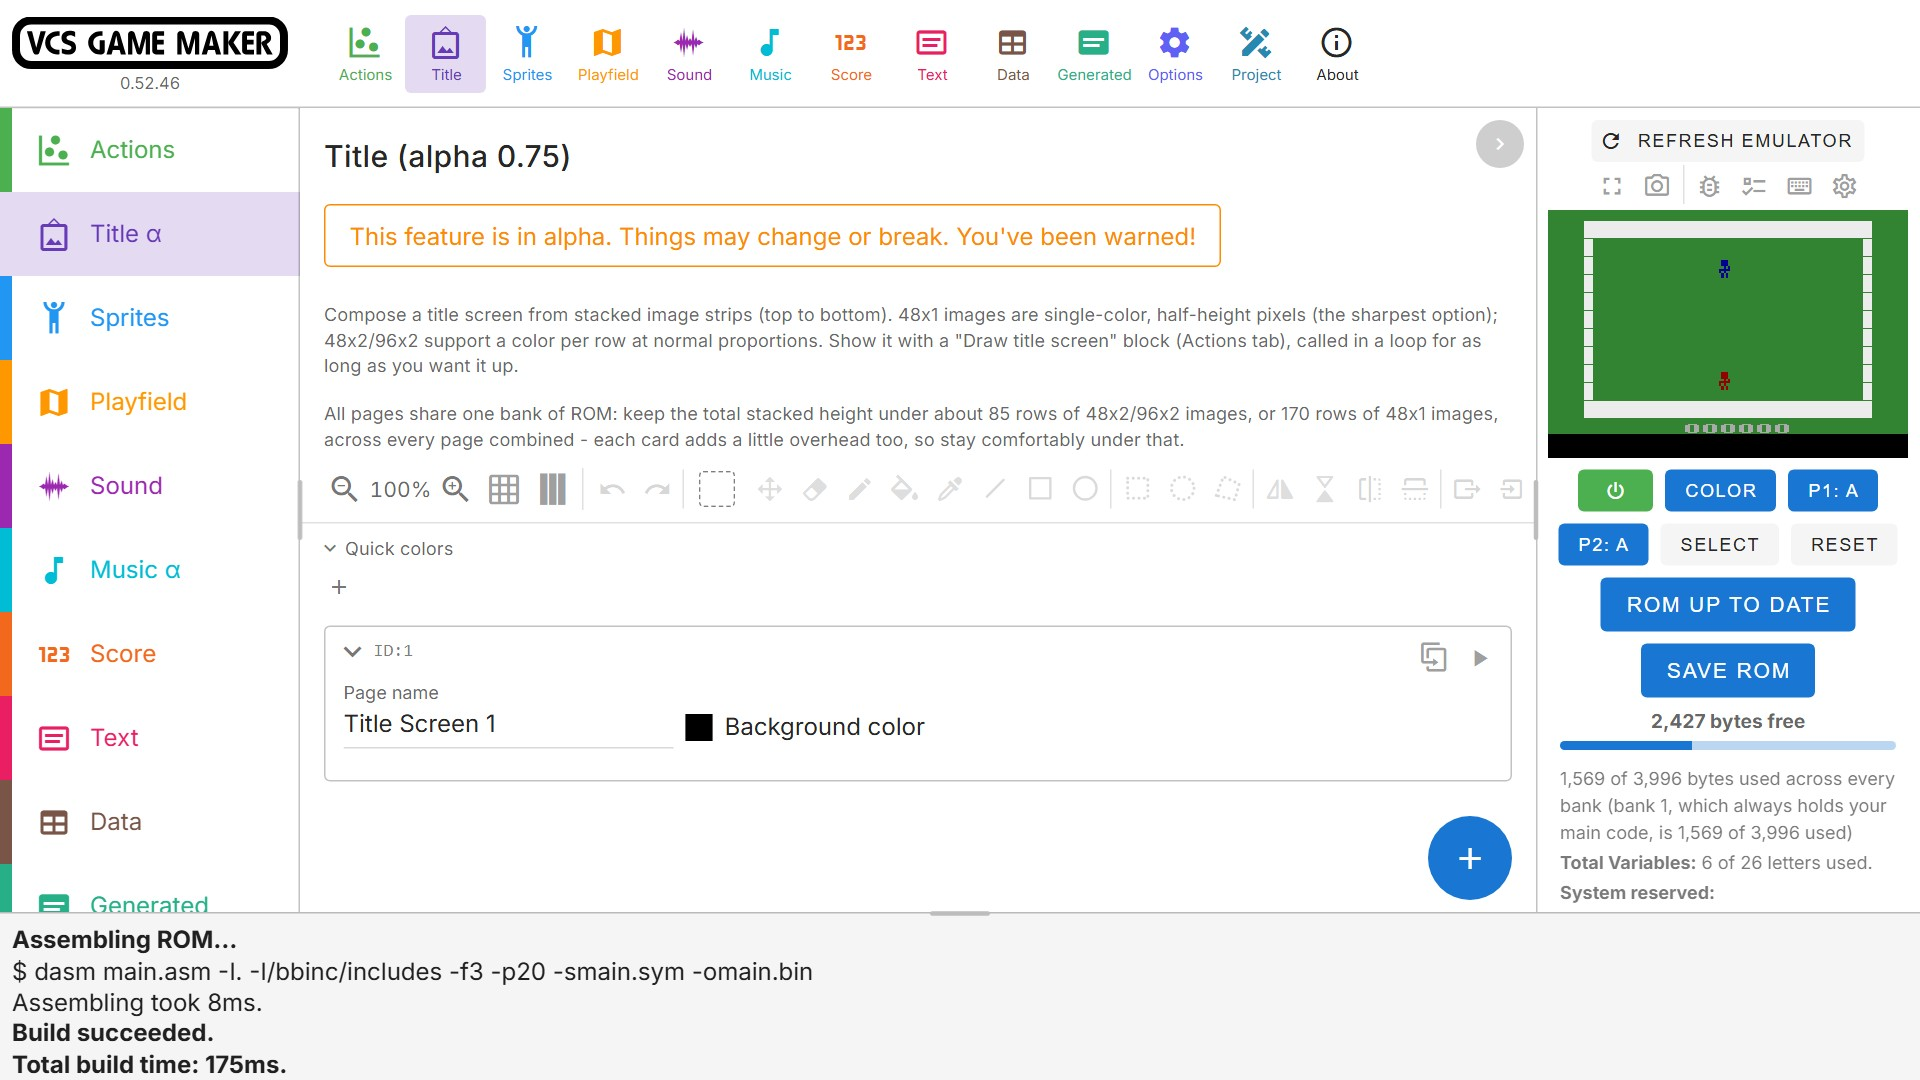
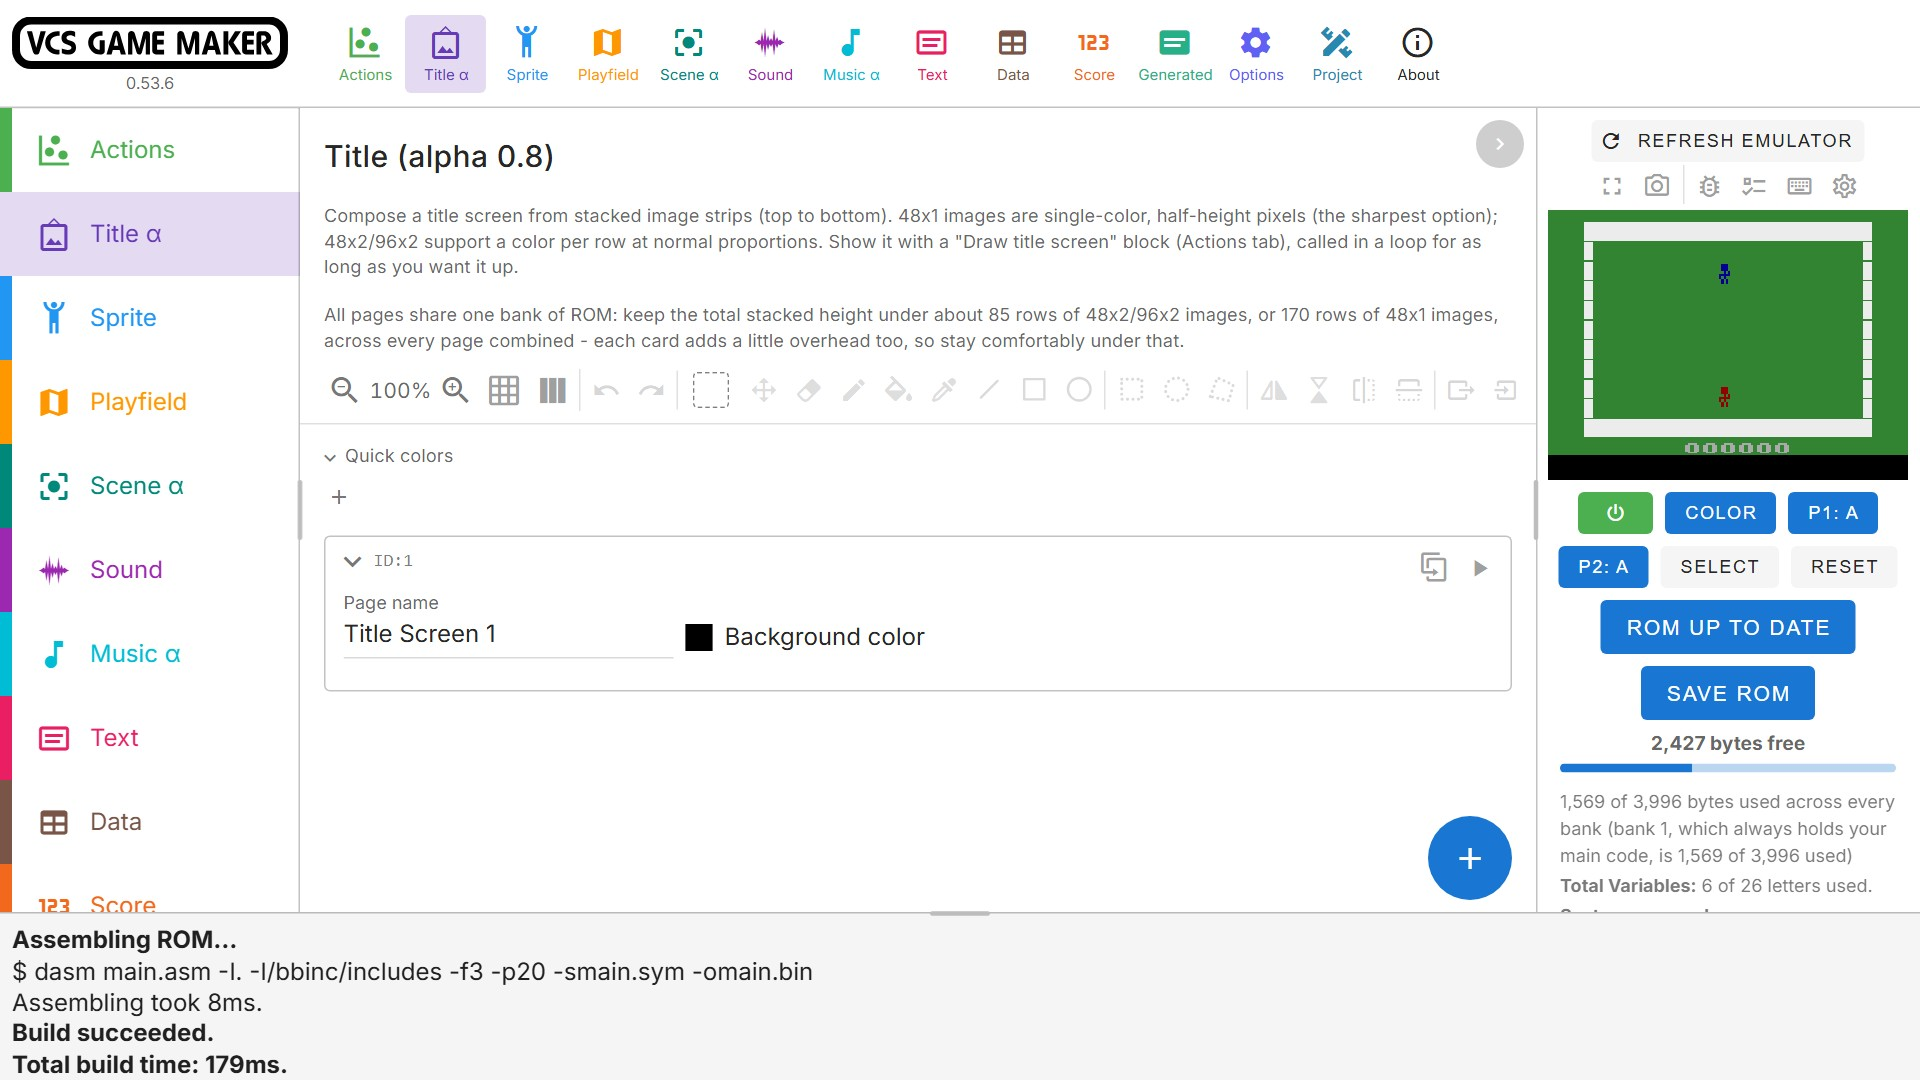
Everything through 0.53.7: DPC+ kernel bank fix, Scenes section on the web page, title preview and macOS signing fixes

diff --git a/src/hooks/rom.js b/src/hooks/rom.js
@@ -221,6 +221,24 @@ const shareDpcPlusPlayerData = (compiled, config) => {
 // multiply or divide by a power of 2 into shifts and may never call it. The routine takes room in the first bank (on DPC+ the
 // kernel's bank, which has under 100 bytes free), so when nothing in the compiled code or the files next to it calls it, the
 // include is left out.
+// On DPC+ the routine would sit in bank 1 with the kernel, which has under 100 bytes free, and a project that divides by 12 was 28 bytes
+// too big for that bank by the routine alone. The compiler sends every multiply and divide to the bank in X (always 1, where the
+// routine is included), so the routine is moved to the end of bank 2 (the bank the program starts in) and the calls are given the new
+// bank. A bank 2 that is then too full shrinks like any other bank, by relocating events and graphics out of it.
+const moveDivMulOutOfKernelBank = (compiled) => {
+  const asm = compiled.mainAsm;
+  if (!/__dpcplus_mainbody_entry/.test(asm)) return;
+  const includeLine = /^[ \t]*include[ \t]+"?div_mul\.asm"?[ \t]*\r?\n/m;
+  const bank3 = /^\.L\d+ ;;line \d+;;  bank 3[ \t]*$/m;
+  const calls = /( lda #<\((?:mul8|div8)-1\)\r?\n pha\r?\n lda temp7\r?\n pha\r?\n txa\r?\n pha\r?\n ldx #)1(\r?\n jmp BS_jsr)/g;
+  if (!includeLine.test(asm) || !bank3.test(asm)) return;
+  compiled.mainAsm = asm
+      .replace(includeLine, '')
+      .replace(bank3, (line) => ` include div_mul.asm\n${line}`)
+      .replace(calls, (all, before, after) => `${before}2${after}`);
+  appendCompileLog('Moved the multiply and divide routine from bank 1 (the kernel, which has little room) to bank 2.');
+};
+
 const dropUnusedDivMul = (compiled, siblingFiles) => {
   const includeLine = /^[ \t]*include[ \t]+"?div_mul\.asm"?[ \t\r]*$/m;
   if (!includeLine.test(compiled.mainAsm)) return;
@@ -228,7 +246,10 @@ const dropUnusedDivMul = (compiled, siblingFiles) => {
   const rest = compiled.mainAsm.replace(includeLine, '');
   const others = Object.entries(siblingFiles || {}).filter(([name]) => !/^div_mul/.test(name)).map(([, text]) => String(text));
   const code = (text) => text.replace(/;.*$/gm, '');
-  if (calls.test(code(rest)) || others.some((text) => calls.test(code(text)))) return;
+  if (calls.test(code(rest)) || others.some((text) => calls.test(code(text)))) {
+    moveDivMulOutOfKernelBank(compiled);
+    return;
+  }
   compiled.mainAsm = rest;
   appendCompileLog('Left out the multiply and divide routine: nothing calls it (the compiler turned the multiplies and divides into shifts).');
 };
@@ -466,6 +487,14 @@ const parseOverflowingBank = (stdout) => {
   const over = [...((stdout || '').matchAll(/(-?\d+) bytes of ROM space left in bank (\d+)/g))]
       .filter((match) => parseInt(match[1], 10) < 0);
   return over.length ? parseInt(over[over.length - 1][2], 10) : null;
+};
+
+// The bank the Title Screen Kernel is in, as a list to spread into a set of banks other units must not be moved to (empty for the kernel
+// itself, and before it has a bank): the kernel takes about 3,300 bytes of its bank, and the units that were moved there with it made it overflow.
+const titleKernelBankFor = (unit) => {
+  if (unit && unit.kind === 'subroutineBanks' && unit.name === TITLE_SCREEN_SUBROUTINE_NAME) return [];
+  const bank = (getRelocationBanks().subroutineBanks || {})[TITLE_SCREEN_SUBROUTINE_NAME];
+  return bank ? [bank] : [];
 };
 
 // How many bytes a bank is over by, from the same lines (0 when it is not over or is not reported).
@@ -1887,7 +1916,10 @@ const buildRomInner = async () => {
                 }
               });
             });
-            coResidents.sort((a, b) => b.size - a.size);
+            // The Title Screen Kernel is the biggest unit by far, and moving it first just made the next bank too full for it (it went round
+            // the banks): it is left where it is, and the other units go.
+            const isTitleKernel = (unit) => unit.kind === 'subroutineBanks' && unit.name === TITLE_SCREEN_SUBROUTINE_NAME;
+            coResidents.sort((a, b) => (isTitleKernel(a) - isTitleKernel(b)) || (b.size - a.size));
             const next = coResidents[0];
             if (!next) {
               // Every occupant of this bank has already been tried
@@ -1934,7 +1966,7 @@ const buildRomInner = async () => {
               // previously-tried bank stay pickable, just deprioritized)
               // caused a different real bug, a unit oscillating forever
               // between the same two equally-penalized banks.
-              const excludeBanks = new Set([reservedMusicBank, ...triedBanks].filter(Boolean));
+              const excludeBanks = new Set([reservedMusicBank, ...triedBanks, ...titleKernelBankFor(next)].filter(Boolean));
               let nextBank = pickNextBank(banks, maxBanks, textMinikernelActive, excludeBanks,
                   minRelocationBankFor(config), [next.kind], primaryBankFor(config));
               // Every available bank has now been tried for this ONE unit
@@ -1969,7 +2001,12 @@ const buildRomInner = async () => {
               .forEach(({kind, name}) => setRelocationBank(kind, name, bank));
           relocatedThisBuild.push({kind: candidate.kind, name: candidate.name, bank, members: candidate.members});
           if (candidate.kind === 'subroutineBanks' && candidate.name === TITLE_SCREEN_SUBROUTINE_NAME) {
-            titleOverBytes = Math.max(titleOverBytes, parseBankOverflowBytes(e.dasmStdout, parseOverflowingBank(e.dasmStdout)));
+            // Only an overflow of a bank other than bank 1 says the title screen is too big: bank 1 over by some bytes with the kernel
+            // moved out is bank 1 itself being full, whatever the title screen is (the message would then blame the wrong thing).
+            const overflowedBank = parseOverflowingBank(e.dasmStdout);
+            if (overflowedBank !== null && overflowedBank !== 1) {
+              titleOverBytes = Math.max(titleOverBytes, parseBankOverflowBytes(e.dasmStdout, overflowedBank));
+            }
           }
           // Not an 'error'-level entry - an overflow here is an expected,
           // automatically-handled part of the relocation retry loop, not a
@@ -1988,7 +2025,7 @@ const buildRomInner = async () => {
             const more = pickRelocationCandidate(getRelocationBanks(), !!reservedMusicBank, primaryBankFor(config));
             if (!more || more.kind === 'musicBanks') break;
             const moreBank = pickNextBank(getRelocationBanks(), maxBanks, textMinikernelActive,
-                reservedMusicBank ? new Set([reservedMusicBank]) : null, minRelocationBankFor(config),
+                new Set([reservedMusicBank, ...titleKernelBankFor(more)].filter(Boolean)), minRelocationBankFor(config),
                 (more.members || [more]).map(({kind}) => kind));
             if (!moreBank) break;
             (more.members || [{kind: more.kind, name: more.name}]).forEach(({kind, name}) => setRelocationBank(kind, name, moreBank));
@@ -2024,8 +2061,8 @@ const buildRomInner = async () => {
               const triedBanks = retriedBanksByUnit.get(unitKey);
               triedBanks.add(emptyThisBank);
               const toBank = pickNextBank(getRelocationBanks(), maxBanks, textMinikernelActive,
-                  new Set([reservedMusicBank, ...triedBanks].filter(Boolean)), minRelocationBankFor(config), [unit.kind],
-                  primaryBankFor(config));
+                  new Set([reservedMusicBank, ...triedBanks, ...titleKernelBankFor(unit)].filter(Boolean)), minRelocationBankFor(config),
+                  [unit.kind], primaryBankFor(config));
               if (!toBank) continue;
               setRelocationBank(unit.kind, unit.name, toBank);
               stuckBankTriedUnits.add(unitKey);

diff --git a/site/index.html b/site/index.html
@@ -117,21 +117,21 @@
       <div class="dl-groups">
         <div class="dl-group">
           <p class="dl-title">Windows</p>
-          <a class="button" href="https://github.com/AbstractPolygon/vcs-game-maker-absply/releases/download/0.53.6/VCS-Game-Maker-0.53.6-Windows-Setup.msi" data-asset="Windows-Setup.msi">Intel / AMD (installer)</a>
-          <a class="button" href="https://github.com/AbstractPolygon/vcs-game-maker-absply/releases/download/0.53.6/VCS-Game-Maker-0.53.6-Windows-arm64-Setup.msi" data-asset="Windows-arm64-Setup.msi">ARM (installer)</a>
+          <a class="button" href="https://github.com/AbstractPolygon/vcs-game-maker-absply/releases/download/0.53.7/VCS-Game-Maker-0.53.7-Windows-Setup.msi" data-asset="Windows-Setup.msi">Intel / AMD (installer)</a>
+          <a class="button" href="https://github.com/AbstractPolygon/vcs-game-maker-absply/releases/download/0.53.7/VCS-Game-Maker-0.53.7-Windows-arm64-Setup.msi" data-asset="Windows-arm64-Setup.msi">ARM (installer)</a>
         </div>
         <div class="dl-group">
           <p class="dl-title">macOS</p>
-          <a class="button" href="https://github.com/AbstractPolygon/vcs-game-maker-absply/releases/download/0.53.6/VCS-Game-Maker-0.53.6-macOS-x64.dmg" data-asset="macOS-x64.dmg">Intel (dmg)</a>
+          <a class="button" href="https://github.com/AbstractPolygon/vcs-game-maker-absply/releases/download/0.53.7/VCS-Game-Maker-0.53.7-macOS-x64.dmg" data-asset="macOS-x64.dmg">Intel (dmg)</a>
         </div>
         <div class="dl-group">
           <p class="dl-title">Linux</p>
-          <a class="button" href="https://github.com/AbstractPolygon/vcs-game-maker-absply/releases/download/0.53.6/VCS-Game-Maker-0.53.6-Linux-x64.AppImage.tar.gz" data-asset="Linux-x64.AppImage.tar.gz">Intel / AMD (AppImage)</a>
-          <a class="button" href="https://github.com/AbstractPolygon/vcs-game-maker-absply/releases/download/0.53.6/VCS-Game-Maker-0.53.6-Linux-amd64.deb" data-asset="Linux-amd64.deb">Intel / AMD (deb)</a>
-          <a class="button" href="https://github.com/AbstractPolygon/vcs-game-maker-absply/releases/download/0.53.6/VCS-Game-Maker-0.53.6-Linux-x86_64.rpm" data-asset="Linux-x86_64.rpm">Intel / AMD (rpm)</a>
-          <a class="button" href="https://github.com/AbstractPolygon/vcs-game-maker-absply/releases/download/0.53.6/VCS-Game-Maker-0.53.6-Linux-arm64.AppImage.tar.gz" data-asset="Linux-arm64.AppImage.tar.gz">ARM (AppImage)</a>
-          <a class="button" href="https://github.com/AbstractPolygon/vcs-game-maker-absply/releases/download/0.53.6/VCS-Game-Maker-0.53.6-Linux-arm64.deb" data-asset="Linux-arm64.deb">ARM (deb)</a>
-          <a class="button" href="https://github.com/AbstractPolygon/vcs-game-maker-absply/releases/download/0.53.6/VCS-Game-Maker-0.53.6-Linux-x64-VCS-portable.tar.gz" data-asset="Linux-x64-VCS-portable.tar.gz">2021 VCS (portable)</a>
+          <a class="button" href="https://github.com/AbstractPolygon/vcs-game-maker-absply/releases/download/0.53.7/VCS-Game-Maker-0.53.7-Linux-x64.AppImage.tar.gz" data-asset="Linux-x64.AppImage.tar.gz">Intel / AMD (AppImage)</a>
+          <a class="button" href="https://github.com/AbstractPolygon/vcs-game-maker-absply/releases/download/0.53.7/VCS-Game-Maker-0.53.7-Linux-amd64.deb" data-asset="Linux-amd64.deb">Intel / AMD (deb)</a>
+          <a class="button" href="https://github.com/AbstractPolygon/vcs-game-maker-absply/releases/download/0.53.7/VCS-Game-Maker-0.53.7-Linux-x86_64.rpm" data-asset="Linux-x86_64.rpm">Intel / AMD (rpm)</a>
+          <a class="button" href="https://github.com/AbstractPolygon/vcs-game-maker-absply/releases/download/0.53.7/VCS-Game-Maker-0.53.7-Linux-arm64.AppImage.tar.gz" data-asset="Linux-arm64.AppImage.tar.gz">ARM (AppImage)</a>
+          <a class="button" href="https://github.com/AbstractPolygon/vcs-game-maker-absply/releases/download/0.53.7/VCS-Game-Maker-0.53.7-Linux-arm64.deb" data-asset="Linux-arm64.deb">ARM (deb)</a>
+          <a class="button" href="https://github.com/AbstractPolygon/vcs-game-maker-absply/releases/download/0.53.7/VCS-Game-Maker-0.53.7-Linux-x64-VCS-portable.tar.gz" data-asset="Linux-x64-VCS-portable.tar.gz">2021 VCS (portable)</a>
         </div>
       </div>
     </section>
@@ -203,6 +203,14 @@
         <p>Draw full-screen playfield backgrounds in the editor. It has the same drawing tools as the sprite editor, with per-row playfield and background colors. Preview backgrounds directly in the emulator so you can get things pixel-perfect easily.</p>
       </div>
       <img src="shot-playfield.jpg" alt="The Playfield tab of VCS Game Maker, with a playfield background being drawn next to the running game.">
+    </section>
+
+    <section class="feature" id="scene">
+      <h2>Scenes</h2>
+      <div class="text">
+        <p>Set up a stage, a level or a menu in the Scene tab: pick a playfield, then drag your sprites onto it and give each one its position, color, width and animation. A single &ldquo;Set scene&rdquo; block puts the whole scene on screen, and &ldquo;Set scene by ID&rdquo; lets your game step through them. Each scene is kept as a card on the Data tab, and a test button shows it in the emulator without touching your ROM.</p>
+      </div>
+      <img src="shot-scene.jpg" alt="The Scene tab of VCS Game Maker, with sprites placed on a playfield and the settings of the selected sprite.">
     </section>
 
     <section class="feature" id="sound">
@@ -368,7 +376,9 @@
 
     <section class="feature wide" id="updates">
       <h2>Latest updates</h2>
-      <p><strong>Version 0.53.6</strong> (<a href="https://github.com/AbstractPolygon/vcs-game-maker-absply/releases/latest">release page</a>)</p>
+      <p><strong>Version 0.53.7</strong> (<a href="https://github.com/AbstractPolygon/vcs-game-maker-absply/releases/latest">release page</a>)</p>
+      <p>DPC+ projects that were a few bytes too big for the kernel bank compile again, the title screen preview works after a build of a project with several title pages, and the macOS apps are signed so Apple Silicon does not say the package is corrupted.</p>
+      <p><strong>Version 0.53.6</strong></p>
       <p>The AtariVox can speak: new blocks in the Sound category say a message from the Text tab. Speech can be started immediately, or queued for after the current speech ends.</p>
       <p>Fixed the gopher2600 emulator, which did not start in versions 0.53.1 to 0.53.3. The title screen Play button works for projects with big title screens.</p>
       <p>Fixed the page freezing when you leave the Music tab after playing music or sounds (the sound code added watchers to the open tab for every note, millions after a song, and closing the tab took minutes). The Music tab also opens about three times faster with a big pattern open: the piano roll is drawn a moment after the rest of the tab.</p>

diff --git a/src/views/BackgroundEditor.vue b/src/views/BackgroundEditor.vue
@@ -194,6 +194,7 @@
                       :placeholder="String(defaultPfres)"
                       persistent-placeholder
                       :title="`How many rows this background has on screen, 1 to 192. Left empty it uses the project's pfres (${defaultPfres}, set in Options).`"
+                      @input="(value) => handleChangeBackgroundPfres(background, value)"
                       @change="(value) => handleChangeBackgroundPfres(background, value)"
                     />
                     <v-text-field
@@ -701,7 +702,10 @@ export default defineComponent({
     // DPC+ keeps up to 255 rows of playfield; a background taller than fits with the screen scrolls without wrapping.
     const maxBackgroundRows = computed(() => kernelIsDpcPlus.value ? 255 : 64);
     const defaultPfres = computed(() => dpcPlusPfresOf(configurationStorage.value));
-    const handleChangeBackgroundPfres = (background, value) => {
+    // The arrows of the number field change its value without a change event (that comes when the field is left), so this is also called on
+    // every input, with the background looked up again (the list is read again from storage after every change).
+    const handleChangeBackgroundPfres = (staleBackground, value) => {
+      const background = state.value.backgrounds.find((candidate) => candidate.id === staleBackground.id) || staleBackground;
       const rows = Math.round(Number(value));
       if (rows > 0) background.pfres = Math.min(192, rows);
       else delete background.pfres;

diff --git a/src/generators/bbasic.js b/src/generators/bbasic.js
@@ -1059,7 +1059,8 @@ Blockly.BBasic.init = function(workspace) {
   // anywhere in the project, regardless of which SPRITE it targets (unlike
   // ctrlpfShadowUsed just above, which only cares about the Ball case).
   this.collisionPixelUsed = workspace.getAllBlocks(false).some((block) =>
-    (block.type === 'background_collision_pixel' || block.type === 'background_collision_pixel_direction') &&
+    (block.type === 'background_collision_pixel' || block.type === 'background_collision_pixel_direction' ||
+      block.type === 'background_collision_pixel_column' || block.type === 'background_collision_pixel_row') &&
     block.isEnabled());
 
   // Same early block-type pre-scan reasoning as the ones above - see
@@ -1987,6 +1988,9 @@ Blockly.BBasic.init = function(workspace) {
   // to draw. Captured on "this" for the same reason keypadLeftVarName/
   // keypadRightVarName are: registerTitleScreenSubroutine needs it, but has
   // to run AFTER "this.subroutines = {}" resets below.
+  // (Cleared first: a project with one page does not reserve it, and the name from an earlier build must not be used then - a title screen
+  // preview, which compiles one page, came after a build of a project with several.)
+  this.titleScreenSelectedIdVarName = undefined;
   if (this.titleScreenDrawUsed) {
     // The page number only matters with more than one page: the shared routine
     // draws the only page there is without reading it (see buildDriverAsm in

diff --git a/forge.config.js b/forge.config.js
@@ -13,6 +13,21 @@ module.exports = {
     icon: 'build/icons/icon',
   },
   rebuildConfig: {},
+  hooks: {
+    // The fuses plugin below changes the program after Electron's own signature was made, and on Apple Silicon a program with a broken
+    // signature is refused as damaged ("the package is corrupted"). Every macOS app is signed again here, ad hoc (no developer
+    // account): macOS then opens it as an app from an unidentified developer (right click, Open) instead of calling it damaged.
+    postPackage: async (forgeConfig, {platform, outputPaths}) => {
+      if (platform !== 'darwin') return;
+      const {execFileSync} = require('child_process');
+      const fs = require('fs');
+      outputPaths.forEach((outputPath) => {
+        fs.readdirSync(outputPath).filter((name) => name.endsWith('.app')).forEach((name) => {
+          execFileSync('codesign', ['--force', '--deep', '--sign', '-', path.join(outputPath, name)], {stdio: 'inherit'});
+        });
+      });
+    },
+  },
   makers: [
     {
       // A Windows Installer (.msi) package: it installs for all users into Program Files and adds a Start Menu shortcut.

diff --git a/src/generators/bbasic/background.js b/src/generators/bbasic/background.js
@@ -837,12 +837,12 @@ export default (Blockly) => {
 
   Blockly.BBasic['background_collision_pixel_column'] = function(block) {
     const pair = Blockly.BBasic.superchipRwPairs[collisionPixelColumnVarName()];
-    return [pair.read, Blockly.BBasic.ORDER_ATOMIC];
+    return [pair ? pair.read : '0', Blockly.BBasic.ORDER_ATOMIC];
   };
 
   Blockly.BBasic['background_collision_pixel_row'] = function(block) {
     const pair = Blockly.BBasic.superchipRwPairs[collisionPixelRowVarName()];
-    return [pair.read, Blockly.BBasic.ORDER_ATOMIC];
+    return [pair ? pair.read : '0', Blockly.BBasic.ORDER_ATOMIC];
   };
 
   Blockly.BBasic[`background_select`] = function(block) {
